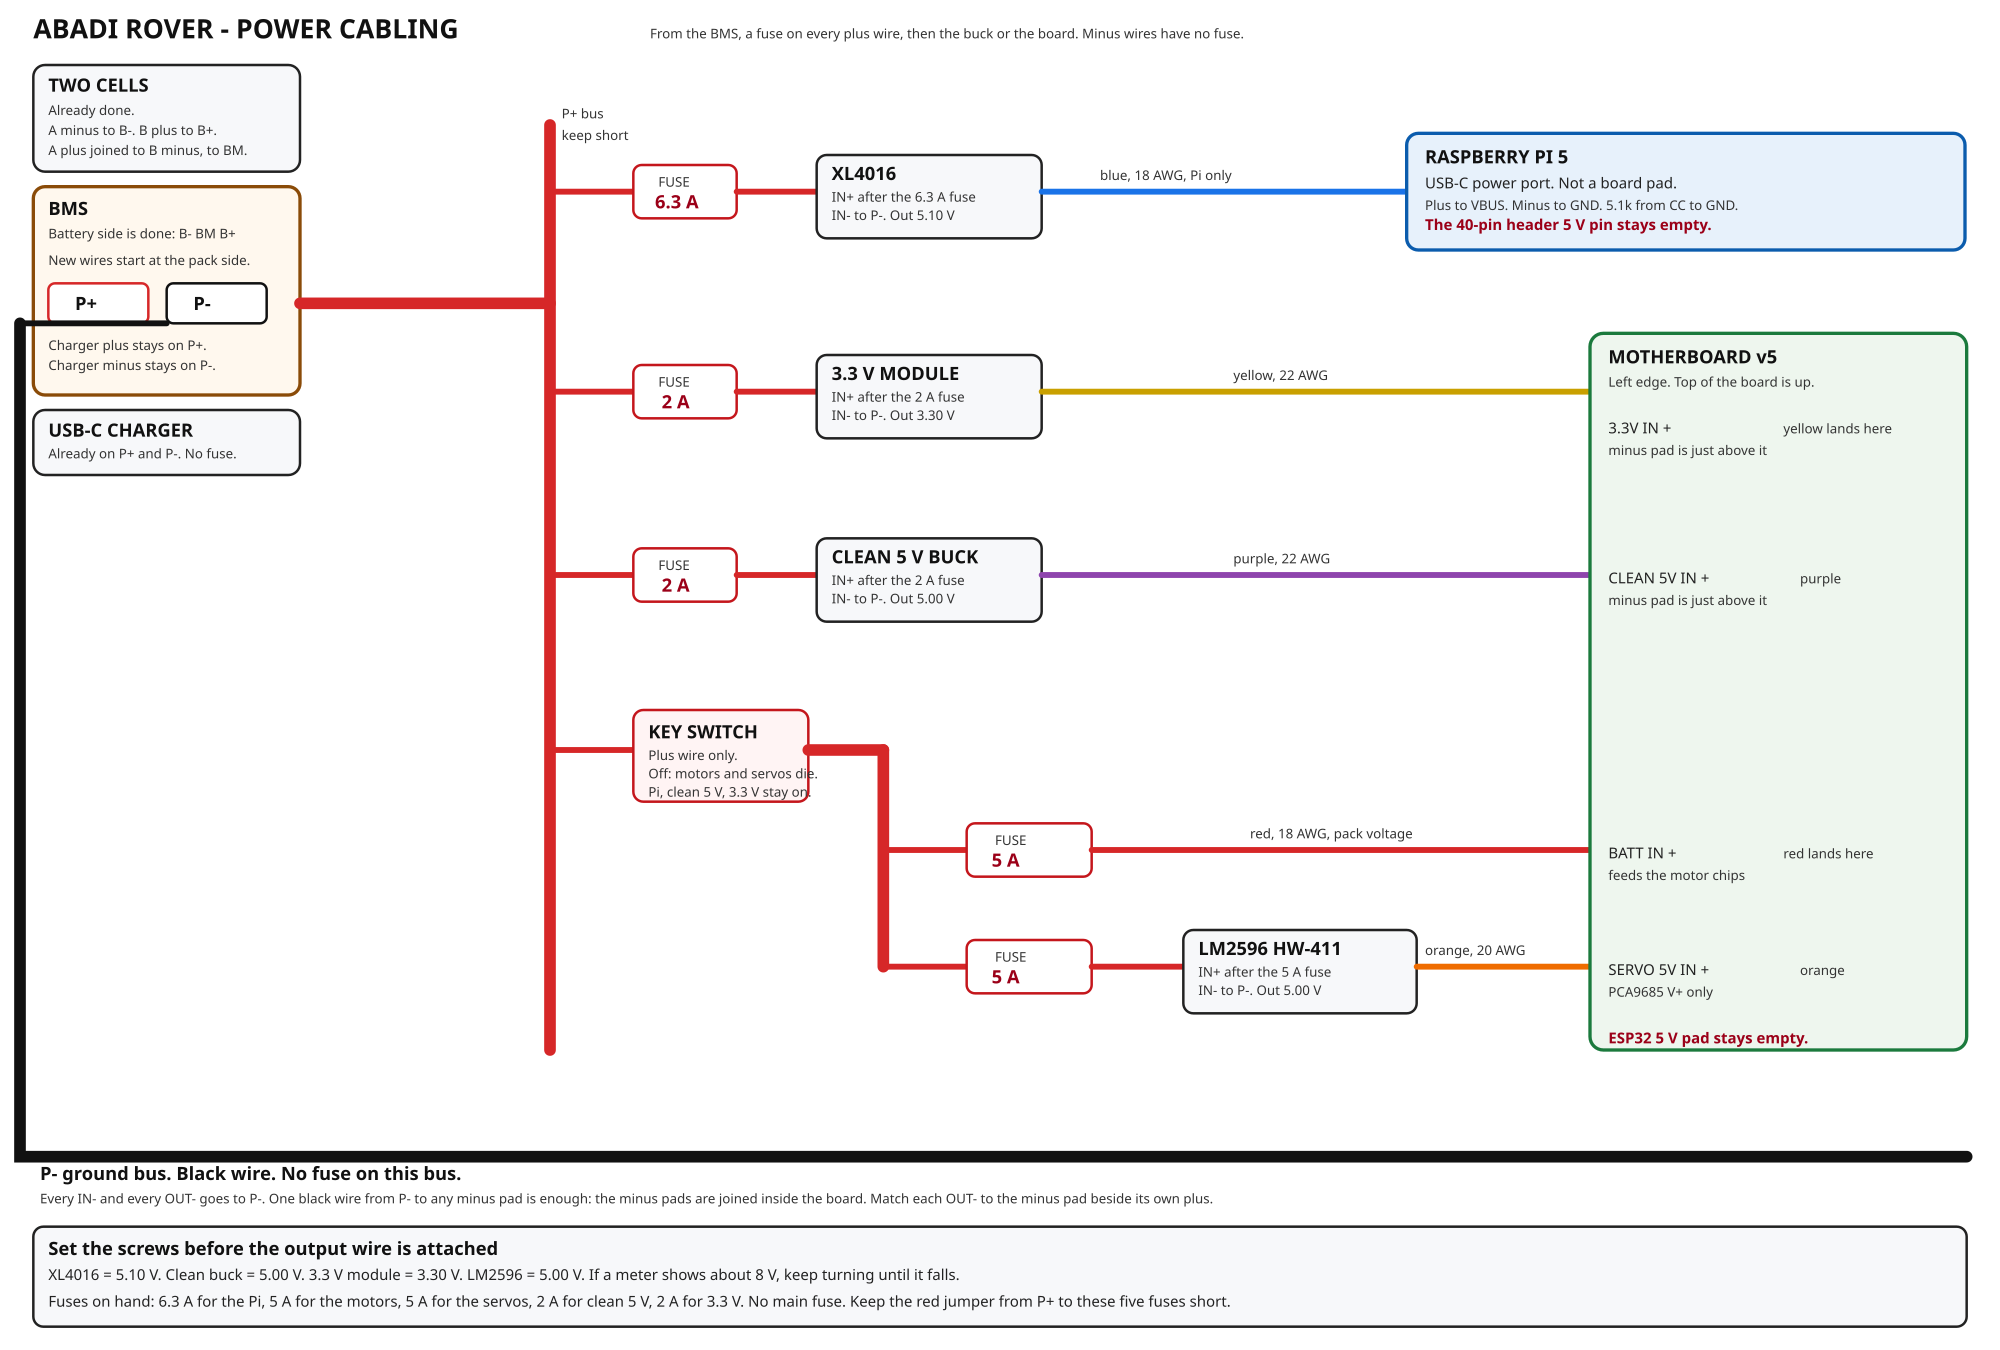
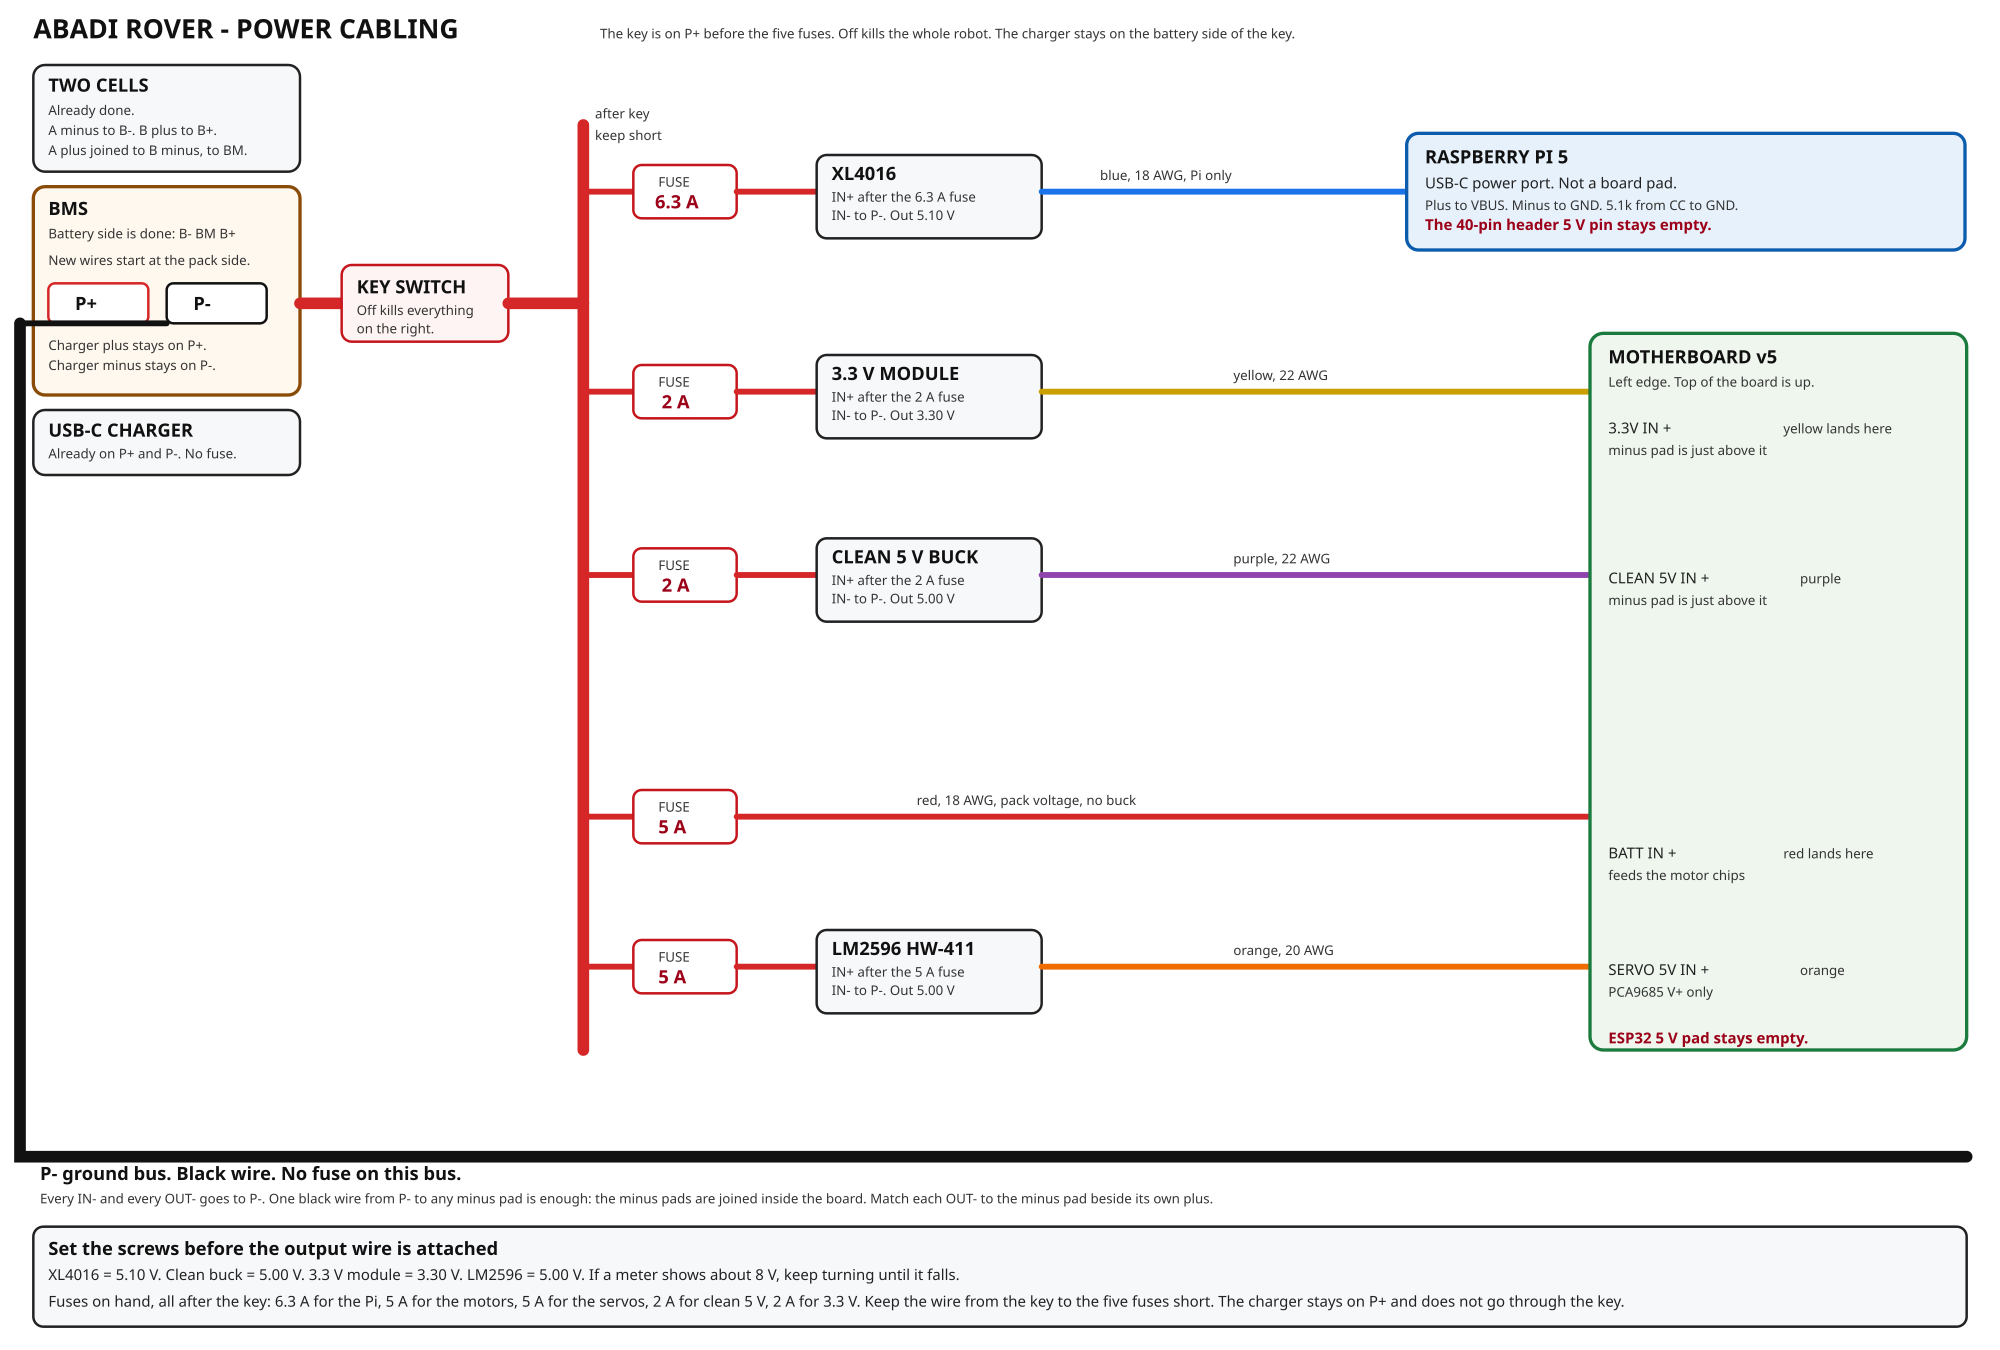
Put the key switch on the main pack plus wire.
Key off now cuts the Pi, the light rails, the motors, and the servos. The charger stays on the battery side of the key.

diff --git a/plan.md b/plan.md
@@ -40,7 +40,7 @@ The rover is bolted together, powered from its own battery, and driven by the ga
 - 2× GMT020-02 2.0" SPI TFT (ST7789, 240×320)
 - Two Li-ion cells, a 2S protection board (B−, BM, B+, P−, P+), and a USB-C charger
 - XL4016 buck (Pi only), one buck for CLEAN 5V IN (label still to be read), LM2596 HW-411 (servos), one 3.3 V module
-- Key switch (cuts motors and servos; the Pi stays on)
+- Key switch on the P+ wire, before the five fuses. Off kills the whole robot. The charger stays on the battery side of the key.
 - 5V cooling fan
 - USB webcam SC-012-SN259
 - A speaker the Pi can drive (USB speaker, or the headphone jack into a powered speaker)
@@ -66,12 +66,12 @@ Fuses, set 7 Nov 2026 from the five fuses on hand. Every fuse is on a plus wire.
 | Fuse on hand | Where it sits | Wire |
 |---|---|---|
 | **6.3 A** | XL4016 input plus (the Pi) | 18 AWG |
-| **5 A** | After the key switch, then BATT IN + | 18 AWG |
-| **5 A** | After the key switch, then LM2596 input plus | 20 AWG |
+| **5 A** | BATT IN + | 18 AWG |
+| **5 A** | LM2596 input plus | 20 AWG |
 | **2 A** | Clean 5 V buck input plus | 22 AWG |
 | **2 A** | 3.3 V module input plus | 22 AWG |
 
-The charger stays on P+ and P- with no fuse of its own. The key switch is on the plus feed of both 5 A fuses, so motors and servos go off together. The Pi, the clean 5 V buck, and the 3.3 V module stay on. The 6.3 A is the Pi fuse because the Pi is the heavy always-on load. The motor wire gets a 5 A fuse because a stalled track is the big fault. The other 5 A is on the servo buck: it opens if that wire shorts. The LM2596 itself stops around 3 A, so the fuse is not what limits a stall.
+The charger stays on P+ and P- with no fuse of its own, on the battery side of the key. The key is the next thing on the P+ wire. Everything to the right of the key — Pi, clean 5 V, 3.3 V, motors, and servos — dies when the key is off. The 6.3 A fuse is on the Pi because that rail is the heavy one. One 5 A fuse is on the motor wire because a stalled track is the big fault. The other 5 A is on the servo buck: it opens if that wire shorts. The LM2596 itself stops around 3 A, so the fuse is not what limits a stall.
 
 What each board pad feeds:
 
@@ -88,7 +88,7 @@ Rules that stay in force:
 - The Pi is powered only through its USB-C power port. Do not use the Pi header 5 V pins. The USB-C plug needs a **5.1 kΩ** resistor from the CC pin to ground, or the Pi can stay off.
 - Do not feed the ESP32 5V/VIN pin from a buck.
 - All minus wires join the board ground. Add one wire from a Pi header GND and one extra wire from an ESP32 GND pin. Do not rely on the USB cable alone for motor ground.
-- The key switch sits in the plus wire of **BATT IN** and the LM2596 input. Motors and servos go off. The Pi, the clean 5 V buck, and the 3.3 V module stay on.
+- The key switch sits in the P+ wire before the five fuses. Off kills the whole robot. Shut the Pi down from its menu when you can. The key is the hard off, and it cuts the Pi too. The gamepad kill button is the one that stops the motors while the Pi stays on.
 - Measure 3.30 V on the 3.3 V rail **before** any relay IN wire is connected. A wandering 3.3 V rail already killed the old controller.
 - Charge with the key switch off. Unplug the charger when a cell reaches 4.20 V or the pack reaches 8.40 V. Unplug if the cells drift more than about 0.1 V apart, or if a cell gets hot.
 
@@ -189,7 +189,7 @@ The charger can still be running. Outputs of the bucks stay free until the meter
 2. Wire each buck input, plus to **P+** and minus to **P−**, with its own pair of wires. The charger stays on those posts.
 3. Meter each output and turn the screw until it reads: XL4016 **5.10 V**, clean buck **5.00 V**, LM2596 **5.00 V**, 3.3 V module **3.30 V**.
 4. Then connect the outputs: XL4016 to the Pi USB-C plug (with the 5.1 kΩ resistor), clean buck to **CLEAN 5V IN**, LM2596 to **SERVO 5V IN**, 3.3 V module to **3.3V IN**. Each minus goes to that pair's minus pad.
-5. Connect **BATT IN** to **P+** and **P−** through the key switch on the plus wire. The LM2596 input plus goes through that same switch.
+5. The key switch is the plus wire from **P+** to the five fuses. **BATT IN** minus and every buck minus go to **P−**.
 6. Turn the key on. Meter the four IN pads on the board. They must match the table. Nothing gets hot.
 
 **Pass:** on the board, BATT IN reads the pack voltage, CLEAN 5V IN and SERVO 5V IN read 5.00 V, and 3.3V IN reads 3.30 V. The Pi is connected only after the XL4016 meter reads 5.10 V. No wire is warm after a minute.
@@ -217,7 +217,7 @@ Power it from the bucks with the key on. Meter BATT IN, CLEAN 5V IN, SERVO 5V IN
 3. One ground wire from a Pi header GND to the board. One extra ground wire from an ESP32 GND pin to the board.
 4. Leave the Pi header 5 V pin empty.
 
-**Pass:** the Pi stays up for 5 minutes. The ESP32 shows up on the Pi. The Pi does not reboot when the key switch turns the motor rail on and off.
+**Pass:** the Pi stays up for 5 minutes and the ESP32 shows up. Key off, the Pi goes dark. Key on, it boots again.
 
 ### Stage 4 — Gamepad (no motors)
 
@@ -256,7 +256,7 @@ Both screens on the headers marked SCREEN L and SCREEN R, powered from the 3.3 V
 
 Bolt the board, the Pi, the pack, and the bucks onto the chassis. Keep the cell tabs covered. Keep wires off the tracks and off the pots, so the voltage screws can still be turned. Mount the camera so it looks forward. Mount the speaker. Tie the pack down so it cannot slide into the tracks.
 
-- **Pass:** drive around the room by gamepad, no PC, key switch kills motion, Pi stays up.
+- **Pass:** drive around the room by gamepad, no PC. The gamepad kill button stops the motors and the Pi stays up. The key switch then kills the whole robot.
 
 ### Stage 10 — Camera
 
@@ -298,7 +298,7 @@ A speaker on the Pi. A microphone, or the camera's microphone if it has one. Spe
 
 ### Stage 15 — One robot
 
-One program: gamepad drive and neck, eyes, lights, and the seeing and talking from the stages above. It can say what it sees and which room it is in, in Arabic or English. The kill button and the key switch still stop motion.
+One program: gamepad drive and neck, eyes, lights, and the seeing and talking from the stages above. It can say what it sees and which room it is in, in Arabic or English. The gamepad kill button stops motion while the Pi stays on. The key switch cuts power to the whole robot.
 
 - **Pass:** drive it through two rooms, no PC. It names the room, notices a person, and answers one spoken sentence. Kill switch works.
 

diff --git a/wiring.md b/wiring.md
@@ -12,7 +12,7 @@ Items marked **(wire later)** belong to a later stage. Leave them unconnected un
 
 | Colour | Use |
 |---|---|
-| Red | Pack plus, BATT IN, after the key switch |
+| Red | Pack plus, after the key switch |
 | Blue | XL4016 5.10 V, Pi USB-C only |
 | Purple | Clean 5 V |
 | Orange | Servo 5 V (LM2596 HW-411) |
@@ -35,18 +35,18 @@ flowchart LR
     Charger["USB-C charger"] --> P["P+ and P-"]
     BMS --> P
 
-    P --> XL["XL4016 set to 5.10V"]
-    P --> Clean["Clean 5V buck set to 5.00V"]
-    P --> Mod33["3.3V module set to 3.30V"]
-    P --> Key["Key switch"]
+    P --> Key["Key switch, whole robot"]
+    Key --> XL["XL4016 set to 5.10V"]
+    Key --> Clean["Clean 5V buck set to 5.00V"]
+    Key --> Mod33["3.3V module set to 3.30V"]
+    Key --> Batt["BATT IN"]
+    Key --> ServoBuck["LM2596 HW-411 set to 5.00V"]
 
     XL --> Pi["Pi USB-C power port"]
     Pi -->|"USB-A to COM"| ESP["ESP32-S3"]
 
     Clean --> CleanIn["CLEAN 5V IN"]
     Mod33 --> Rail["3.3V IN"]
-    Key --> Batt["BATT IN"]
-    Key --> ServoBuck["LM2596 HW-411 set to 5.00V"]
     ServoBuck --> ServoIn["SERVO 5V IN"]
 
     Batt --> Motors["DRV8833 power pins"]
@@ -149,12 +149,13 @@ Set every output with the meter before the output wire is attached. Glue the scr
 | [ ] | Cell B plus | BMS **B+** | — |
 | [ ] | Charger plus | BMS **P+** | — |
 | [ ] | Charger minus | BMS **P−** | — |
-| [ ] | BMS **P+**, short jumper | the five fuse holders | Red |
+| [ ] | BMS **P+** | Key switch terminal 1 | Red |
+| [ ] | Key switch terminal 2 | the five fuse holders, short jumper | Red |
 | [ ] | 6.3 A fuse | XL4016 IN+ | Red, 18 AWG |
 | [ ] | 2 A fuse | Clean buck IN+ | Red, 22 AWG |
 | [ ] | 2 A fuse | 3.3 V module IN+ | Red, 22 AWG |
-| [ ] | Key switch, then 5 A fuse | **BATT IN +** | Red, 18 AWG |
-| [ ] | Key switch, then the other 5 A fuse | LM2596 IN+ | Red, 20 AWG |
+| [ ] | 5 A fuse | **BATT IN +** | Red, 18 AWG |
+| [ ] | the other 5 A fuse | LM2596 IN+ | Red, 20 AWG |
 | [ ] | XL4016 IN− | BMS **P−** | Black |
 | [ ] | XL4016 OUT+ at 5.10 V | Pi USB-C power port, with 5.1 kΩ from CC to ground | Blue |
 | [ ] | XL4016 OUT− | Pi USB-C ground | Black |
